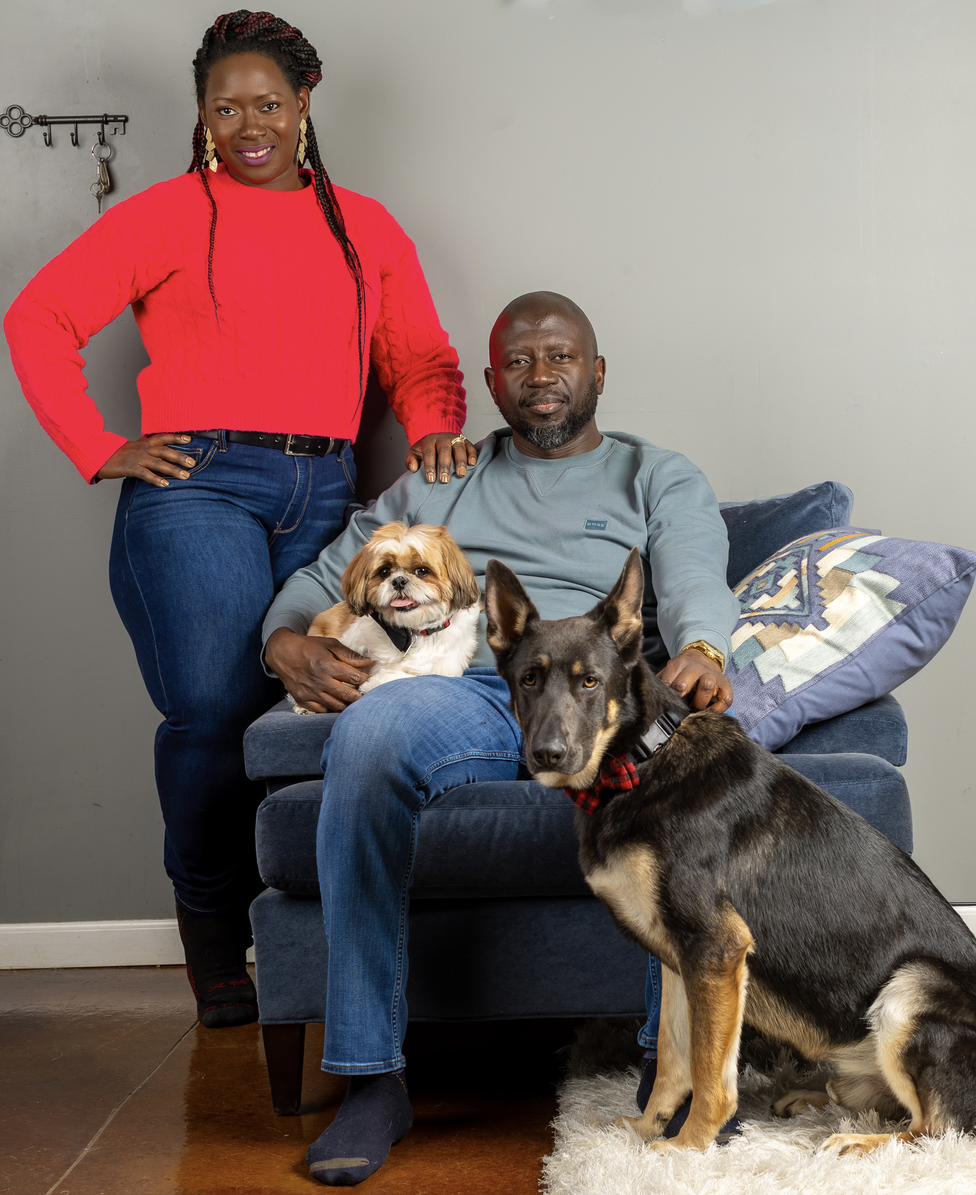
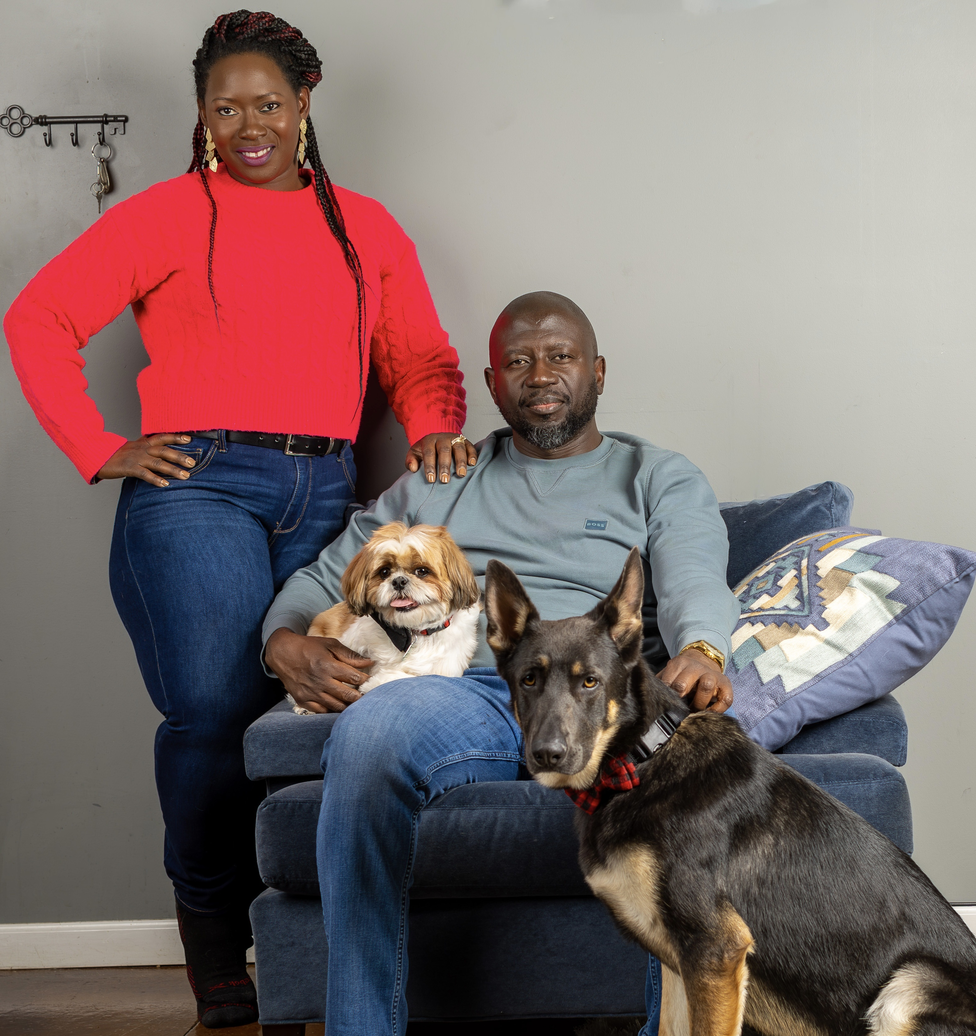
made changes base on client request

diff --git a/app/components/about.tsx b/app/components/about.tsx
@@ -18,11 +18,14 @@ export function About() {
                 residents transition into our homes for their physical,
                 emotional, and social needs.
               </p>
+              <h2 className="text-4xl font-bold text-foreground mb-6 text-balance">
+                We are here for you.
+              </h2>
               <p>
-                We are here for you. We strive to make the process of
-                transitioning your loved one into their new environment as
-                stress-free as possible. With our experienced and well-trained
-                staff, we will help you every step of the way.
+                We strive to make the process of transitioning your loved one
+                into their new environment as stress-free as possible. With our
+                experienced and well-trained staff, we will help you every step
+                of the way.
               </p>
               <p>
                 The Fusion team is committed to your family having peace of mind
@@ -34,12 +37,12 @@ export function About() {
 
           {/* Image */}
           <div className="relative">
-            <div className="aspect-[4/3] relative rounded-lg overflow-hidden bg-secondary/10">
+            <div className="aspect-[6/5] relative rounded-lg overflow-hidden bg-secondary/10 ">
               <Image
                 src="/family-photo.jpg"
                 alt="Fusion Senior Care Homes family owners with their pets"
                 fill
-                className="object-contain"
+                className="object-cover object-top sm:object-contain sm:object-center"
               />
             </div>
             {/* Decorative element */}

diff --git a/app/components/homes-showcase.tsx b/app/components/homes-showcase.tsx
@@ -8,8 +8,7 @@ const homes = [
     name: "Fusion Senior Care Homes I",
     address: "512 N Bebe St, Wichita KS 67212",
     phone: "917-337-5703",
-    image:
-      "https://hebbkx1anhila5yf.public.blob.vercel-storage.com/image-VjFLNvJfhLPjJX8JPvFgbISSQ3E7dd.png",
+    image: "/fusion_senior_care_homes_I.jpg",
     description:
       "Our original location providing trusted care with a warm, family-like atmosphere for over a decade.",
   },
@@ -17,8 +16,7 @@ const homes = [
     name: "Fusion Senior Care Home Plus II",
     address: "512 S Horseshoe Bend, Maize KS 67001",
     phone: "917-337-5703",
-    image:
-      "https://hebbkx1anhila5yf.public.blob.vercel-storage.com/image-QTplh1uVoig2rY5JEqx7DpRYKZcZDH.png",
+    image: "/fusion_senior_care_homes_II.jpg",
     description:
       "Our Maize house located in the beautiful Carriage parkway neighborhood, providing seniors in the west Wichita area the quality personalized care.",
   },
@@ -38,7 +36,7 @@ const homes = [
     image:
       "https://hebbkx1anhila5yf.public.blob.vercel-storage.com/image-RWG0HJBOAy5vIURBzmHqD2bf8E7VaZ.png",
     description:
-      "individualized, attentive to each resident's unique needs, care setting with dedicated staff providing to each resident's unique needs.",
+      "Individualized attentive to each resident's unique needs, care setting with dedicated staff providing to each resident's unique needs.",
   },
 ];
 

diff --git a/app/components/contact.tsx b/app/components/contact.tsx
@@ -23,8 +23,8 @@ export function Contact() {
           </h2>
           <p className="text-xl text-muted-foreground max-w-3xl mx-auto text-pretty leading-relaxed">
             The sooner you contact us, the sooner we can help you find solutions
-            to your concerns. We will walk you through the approval process with
-            medical and financial consultations.
+            to your senior care needs. We will walk you through the approval
+            process with medical and financial consultations.
           </p>
         </div>
 
@@ -173,7 +173,7 @@ export function Contact() {
               <div className="space-y-1 text-xs text-foreground">
                 <p>Mon-Fri: 9am-5pm</p>
                 <h4 className="text-lg font-semibold text-foreground mb-2">
-                  Home visiting hours
+                  Home Visiting Hours
                 </h4>
                 <p>Sunday to Saturday: 8am to 8pm</p>
               </div>

diff --git a/app/page.jsx b/app/page.jsx
@@ -15,8 +15,8 @@ export default function Home() {
       <HomesShowcase />
       <Services />
       <About />
-      <Contact />
       <FAQSection />
+      <Contact />
       <Footer />
     </main>
   );
